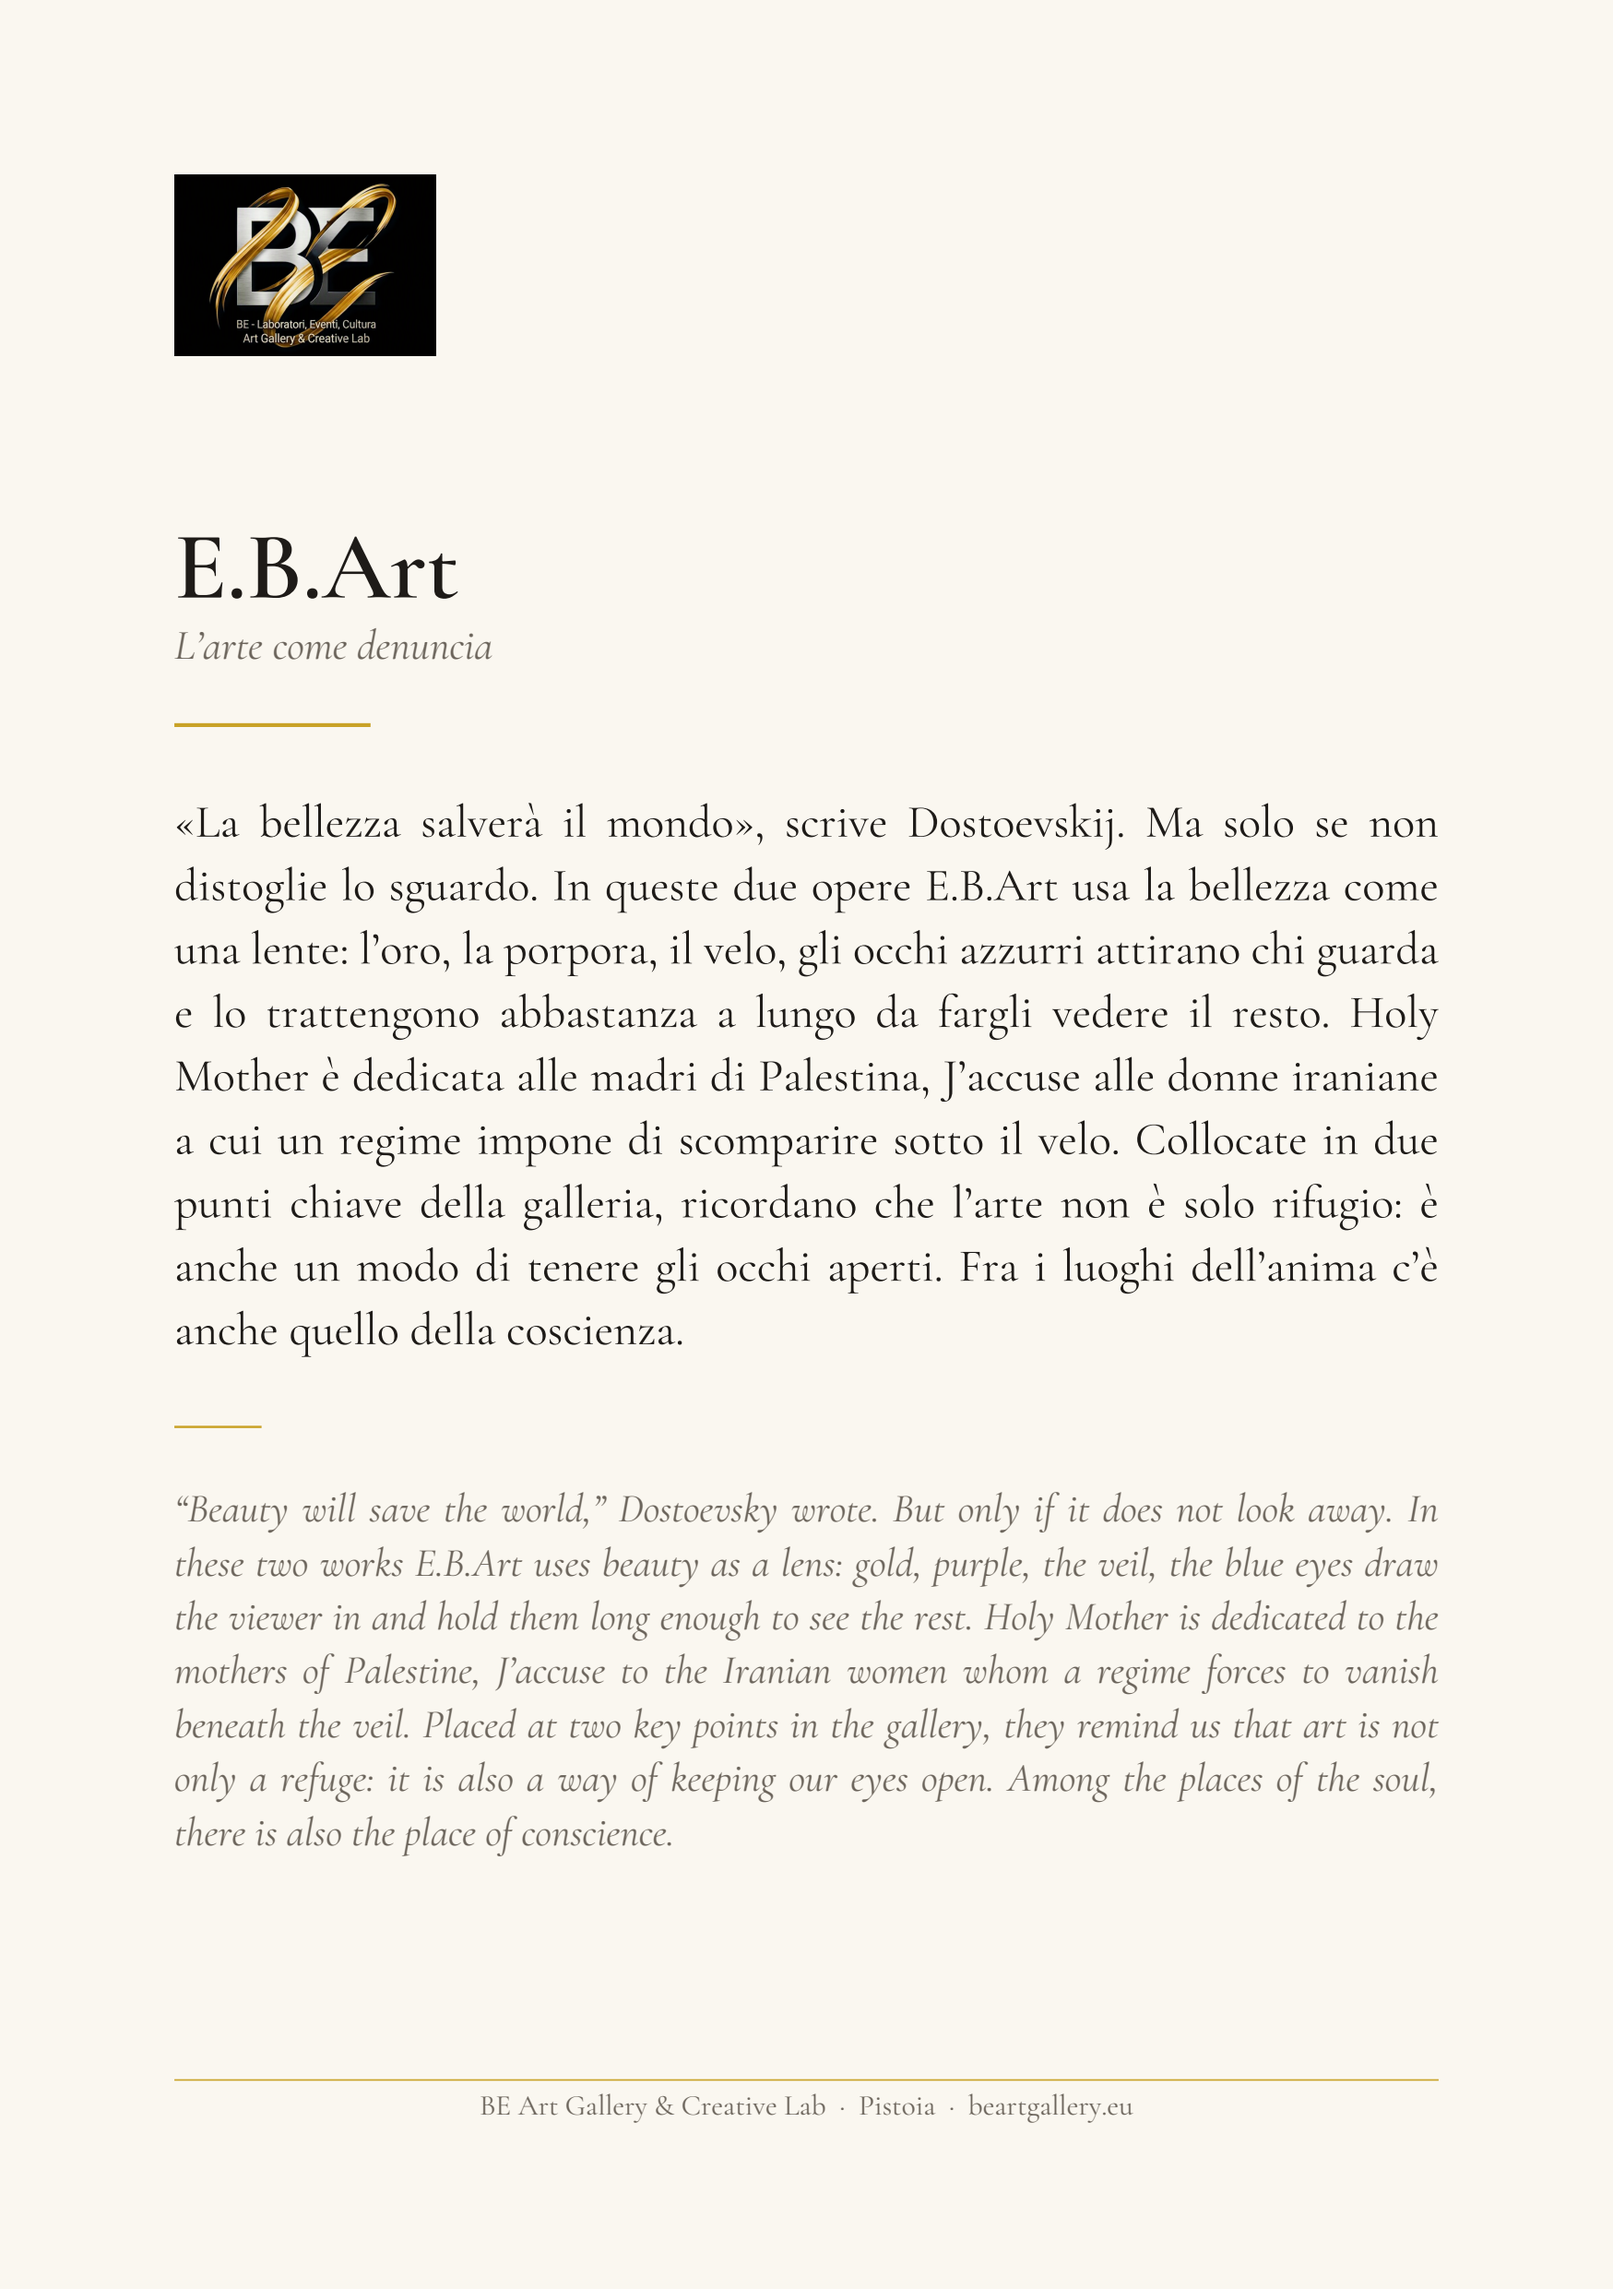
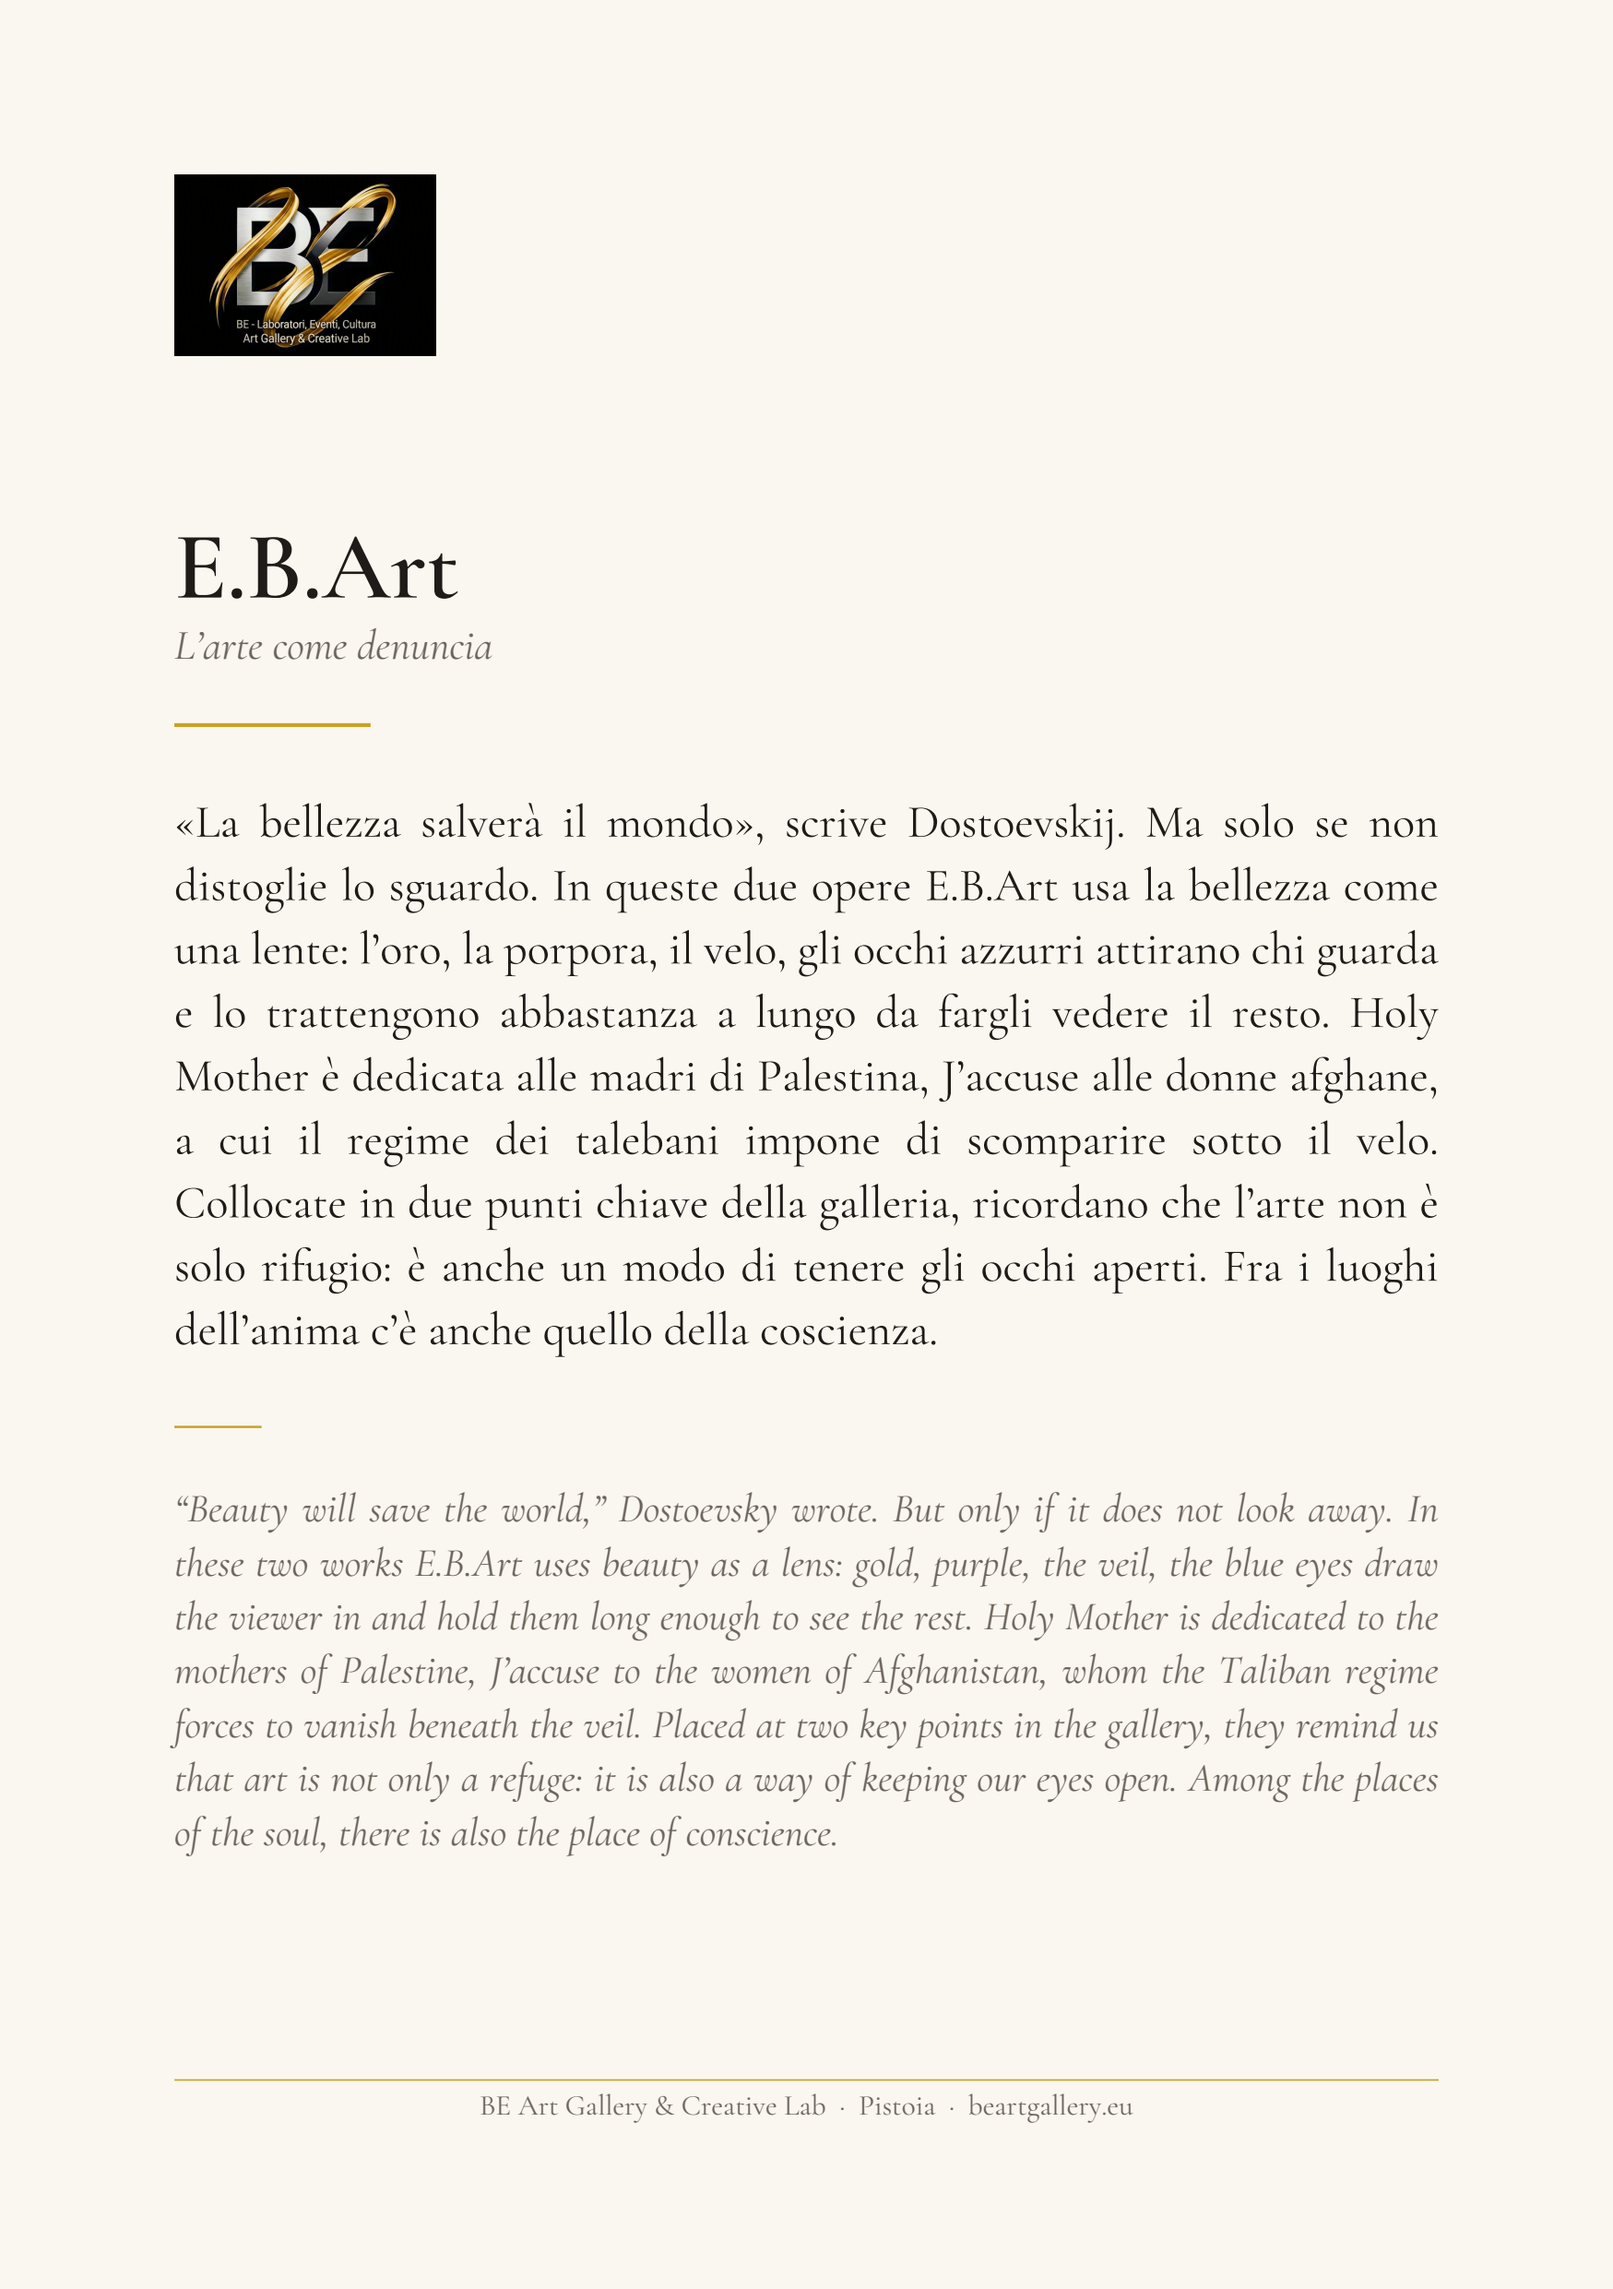
Corregge la dedica di J'accuse: alle donne afghane
Claude-Session: https://claude.ai/code/session_0148bZgqQiCtdshijf84M1Qp

Changed region(s): [[0.0926, 0.4655, 0.8954, 0.5897], [0.0926, 0.7138, 0.8954, 0.8069]]

diff --git a/testi-critici/artisti/eb-art/analisi.md b/testi-critici/artisti/eb-art/analisi.md
@@ -7,7 +7,7 @@
 
 | | |
 |---|---|
-| **Opere** | *Holy Mother*, dedicata alle madri di Palestina · *J'accuse*, dedicata alle donne iraniane |
+| **Opere** | *Holy Mother*, dedicata alle madri di Palestina · *J'accuse*, dedicata alle donne afghane |
 | **Spunto di Elena** | l'arte come strumento potente di denuncia, per tenere alta l'attenzione; la frase di Dostoevskij, «La bellezza salverà il mondo» (*L'idiota*) |
 | **Da completare** | misure e tecniche esatte: sul cartellino per ora «tecnica mista su tela» |
 | **Stesura** | 8 ottobre 2026 · v1 |
@@ -16,13 +16,13 @@
 
 ## Testo delle due opere
 
-**Italiano** — _595 caratteri_
+**Italiano** — _608 caratteri_
 
-> «La bellezza salverà il mondo», scrive Dostoevskij. Ma solo se non distoglie lo sguardo. In queste due opere E.B.Art usa la bellezza come una lente: l'oro, la porpora, il velo, gli occhi azzurri attirano chi guarda e lo trattengono abbastanza a lungo da fargli vedere il resto. Holy Mother è dedicata alle madri di Palestina, J'accuse alle donne iraniane a cui un regime impone di scomparire sotto il velo. Collocate in due punti chiave della galleria, ricordano che l'arte non è solo rifugio: è anche un modo di tenere gli occhi aperti. Fra i luoghi dell'anima c'è anche quello della coscienza.
+> «La bellezza salverà il mondo», scrive Dostoevskij. Ma solo se non distoglie lo sguardo. In queste due opere E.B.Art usa la bellezza come una lente: l'oro, la porpora, il velo, gli occhi azzurri attirano chi guarda e lo trattengono abbastanza a lungo da fargli vedere il resto. Holy Mother è dedicata alle madri di Palestina, J'accuse alle donne afghane, a cui il regime dei talebani impone di scomparire sotto il velo. Collocate in due punti chiave della galleria, ricordano che l'arte non è solo rifugio: è anche un modo di tenere gli occhi aperti. Fra i luoghi dell'anima c'è anche quello della coscienza.
 
 **English** — _564 characters_
 
-> “Beauty will save the world,” Dostoevsky wrote. But only if it does not look away. In these two works E.B.Art uses beauty as a lens: gold, purple, the veil, the blue eyes draw the viewer in and hold them long enough to see the rest. Holy Mother is dedicated to the mothers of Palestine, J'accuse to the Iranian women whom a regime forces to vanish beneath the veil. Placed at two key points in the gallery, they remind us that art is not only a refuge: it is also a way of keeping our eyes open. Among the places of the soul, there is also the place of conscience.
+> “Beauty will save the world,” Dostoevsky wrote. But only if it does not look away. In these two works E.B.Art uses beauty as a lens: gold, purple, the veil, the blue eyes draw the viewer in and hold them long enough to see the rest. Holy Mother is dedicated to the mothers of Palestine, J'accuse to the women of Afghanistan, whom the Taliban regime forces to vanish beneath the veil. Placed at two key points in the gallery, they remind us that art is not only a refuge: it is also a way of keeping our eyes open. Among the places of the soul, there is also the place of conscience.
 
 ---
 
@@ -42,13 +42,13 @@
 
 ### *J'accuse*
 
-**Italiano** — _248 caratteri_
+**Italiano** — _261 caratteri_
 
-> Del volto restano soltanto gli occhi, e guardano dritto chi passa. Linee nere stringono la figura come una rete, intorno il blu è notte. Il titolo è quello di Zola: un atto d'accusa, per le donne a cui un regime ha tolto il volto ma non lo sguardo.
+> Del volto restano soltanto gli occhi, e guardano dritto chi passa. Linee nere stringono la figura come una rete, intorno il blu è notte. Il titolo è quello di Zola: un atto d'accusa, per le donne afghane, a cui i talebani hanno tolto il volto ma non lo sguardo.
 
 **English**
 
-> Only the eyes remain of the face, and they look straight at whoever passes. Black lines tighten around the figure like a net; around it, the blue is night. The title is Zola's: an act of accusation, for the women from whom a regime has taken the face but not the gaze.
+> Only the eyes remain of the face, and they look straight at whoever passes. Black lines tighten around the figure like a net; around it, the blue is night. The title is Zola's: an act of accusation, for the women of Afghanistan, from whom the Taliban have taken the face but not the gaze.
 
 **Cosa ho visto** — figura avvolta in un velo ocra e oro, steso a spatola in cerchi; volto coperto fino agli occhi, che sono l'unica parte dipinta con dettaglio; linee nere colate in rilievo che disegnano le pieghe come una rete o una gabbia; fondo blu scuro graffiato, con bianchi strappati.
 
@@ -58,13 +58,7 @@
 
 - **«J'accuse»**: il titolo dell'articolo di Émile Zola del 1898 sull'affare
   Dreyfus, diventato sinonimo di denuncia pubblica di un'ingiustizia
-- **attenzione a un dettaglio**: Elena ha scritto «donne iraniane sotto il
-  regime dei talebani». I talebani governano l'**Afghanistan**; l'Iran è una
-  repubblica islamica governata dal clero sciita, dove il velo obbligatorio è
-  al centro delle proteste «Donna, vita, libertà» dal 2022. Il testo dice
-  «donne iraniane» e «un regime», senza nominare i talebani: è corretto in
-  ogni caso. **Da confermare con Elena** se la dedica è alle iraniane o alle
-  afghane
+- **la dedica**: alle donne **afghane**, sotto il regime dei talebani — confermato da Elena l'8 ottobre 2026
 - il legame con il resto della mostra: *Terra promessa* di **Enzo Mazzanti**,
   anch'essa dedicata alla Palestina; e le donne dal volto nascosto di **Maria
   Cristina Andreini**, dove però nascondere il volto è una scelta di libertà,
